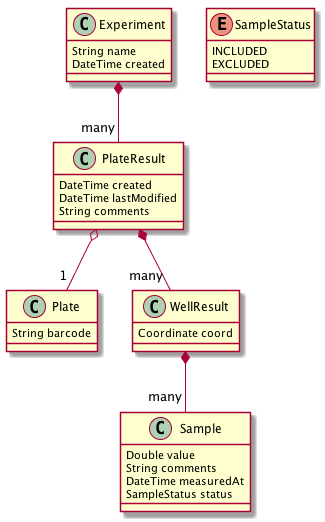
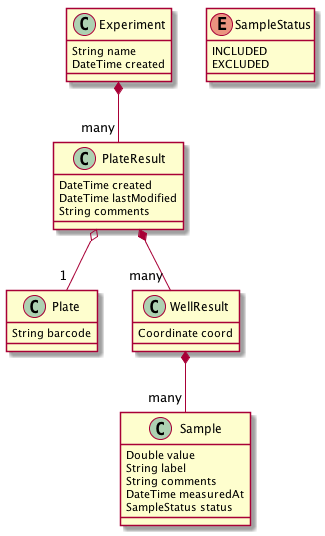
- added label to samples

diff --git a/we99-domain/src/main/java/edu/harvard/we99/domain/results/Sample.java b/we99-domain/src/main/java/edu/harvard/we99/domain/results/Sample.java
@@ -34,6 +34,11 @@ public class Sample extends BaseEntity {
     private Double value;
 
     /**
+     * Optional label to help aggregate this sample with others
+     */
+    private String label;
+
+    /**
      * Optional comments from the user about this sample
      */
     private String comments;
@@ -99,5 +104,15 @@ public class Sample extends BaseEntity {
     @Generated(value = "generated by IDE")
     public void setStatus(SampleStatus status) {
         this.status = status;
+    }
+
+    @Generated(value = "generated by IDE")
+    public String getLabel() {
+        return label;
+    }
+
+    @Generated(value = "generated by IDE")
+    public void setLabel(String label) {
+        this.label = label;
     }
 }
